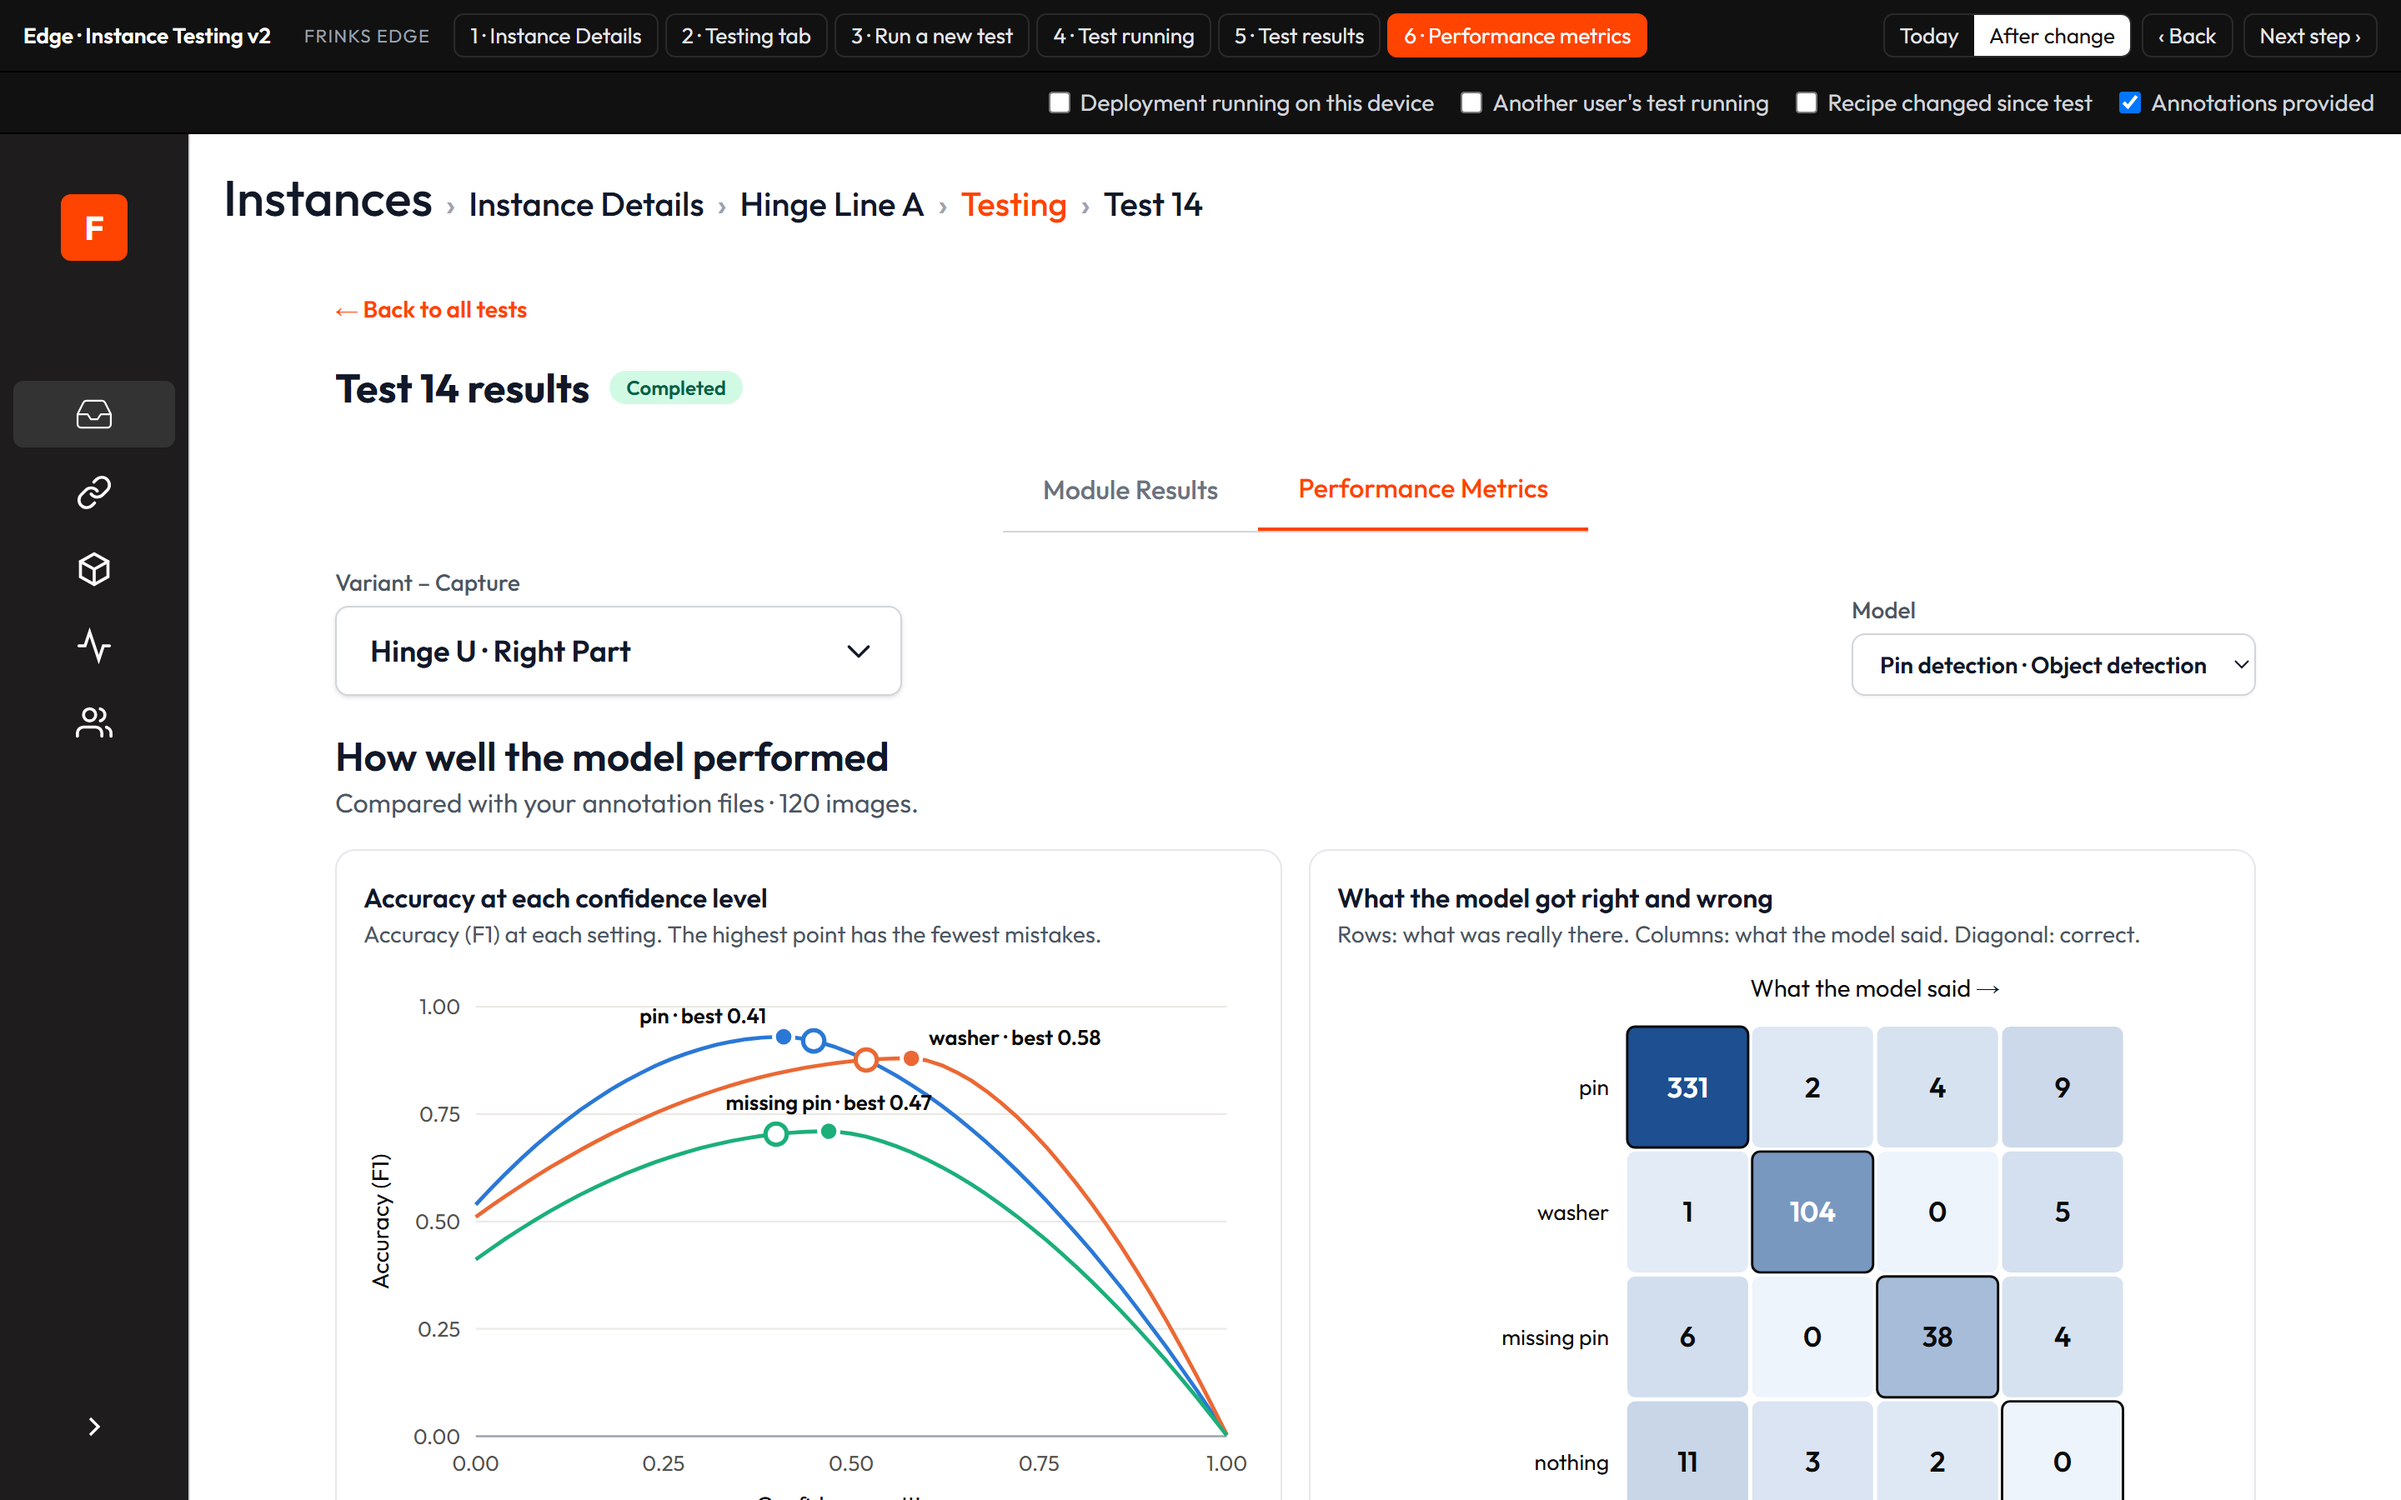
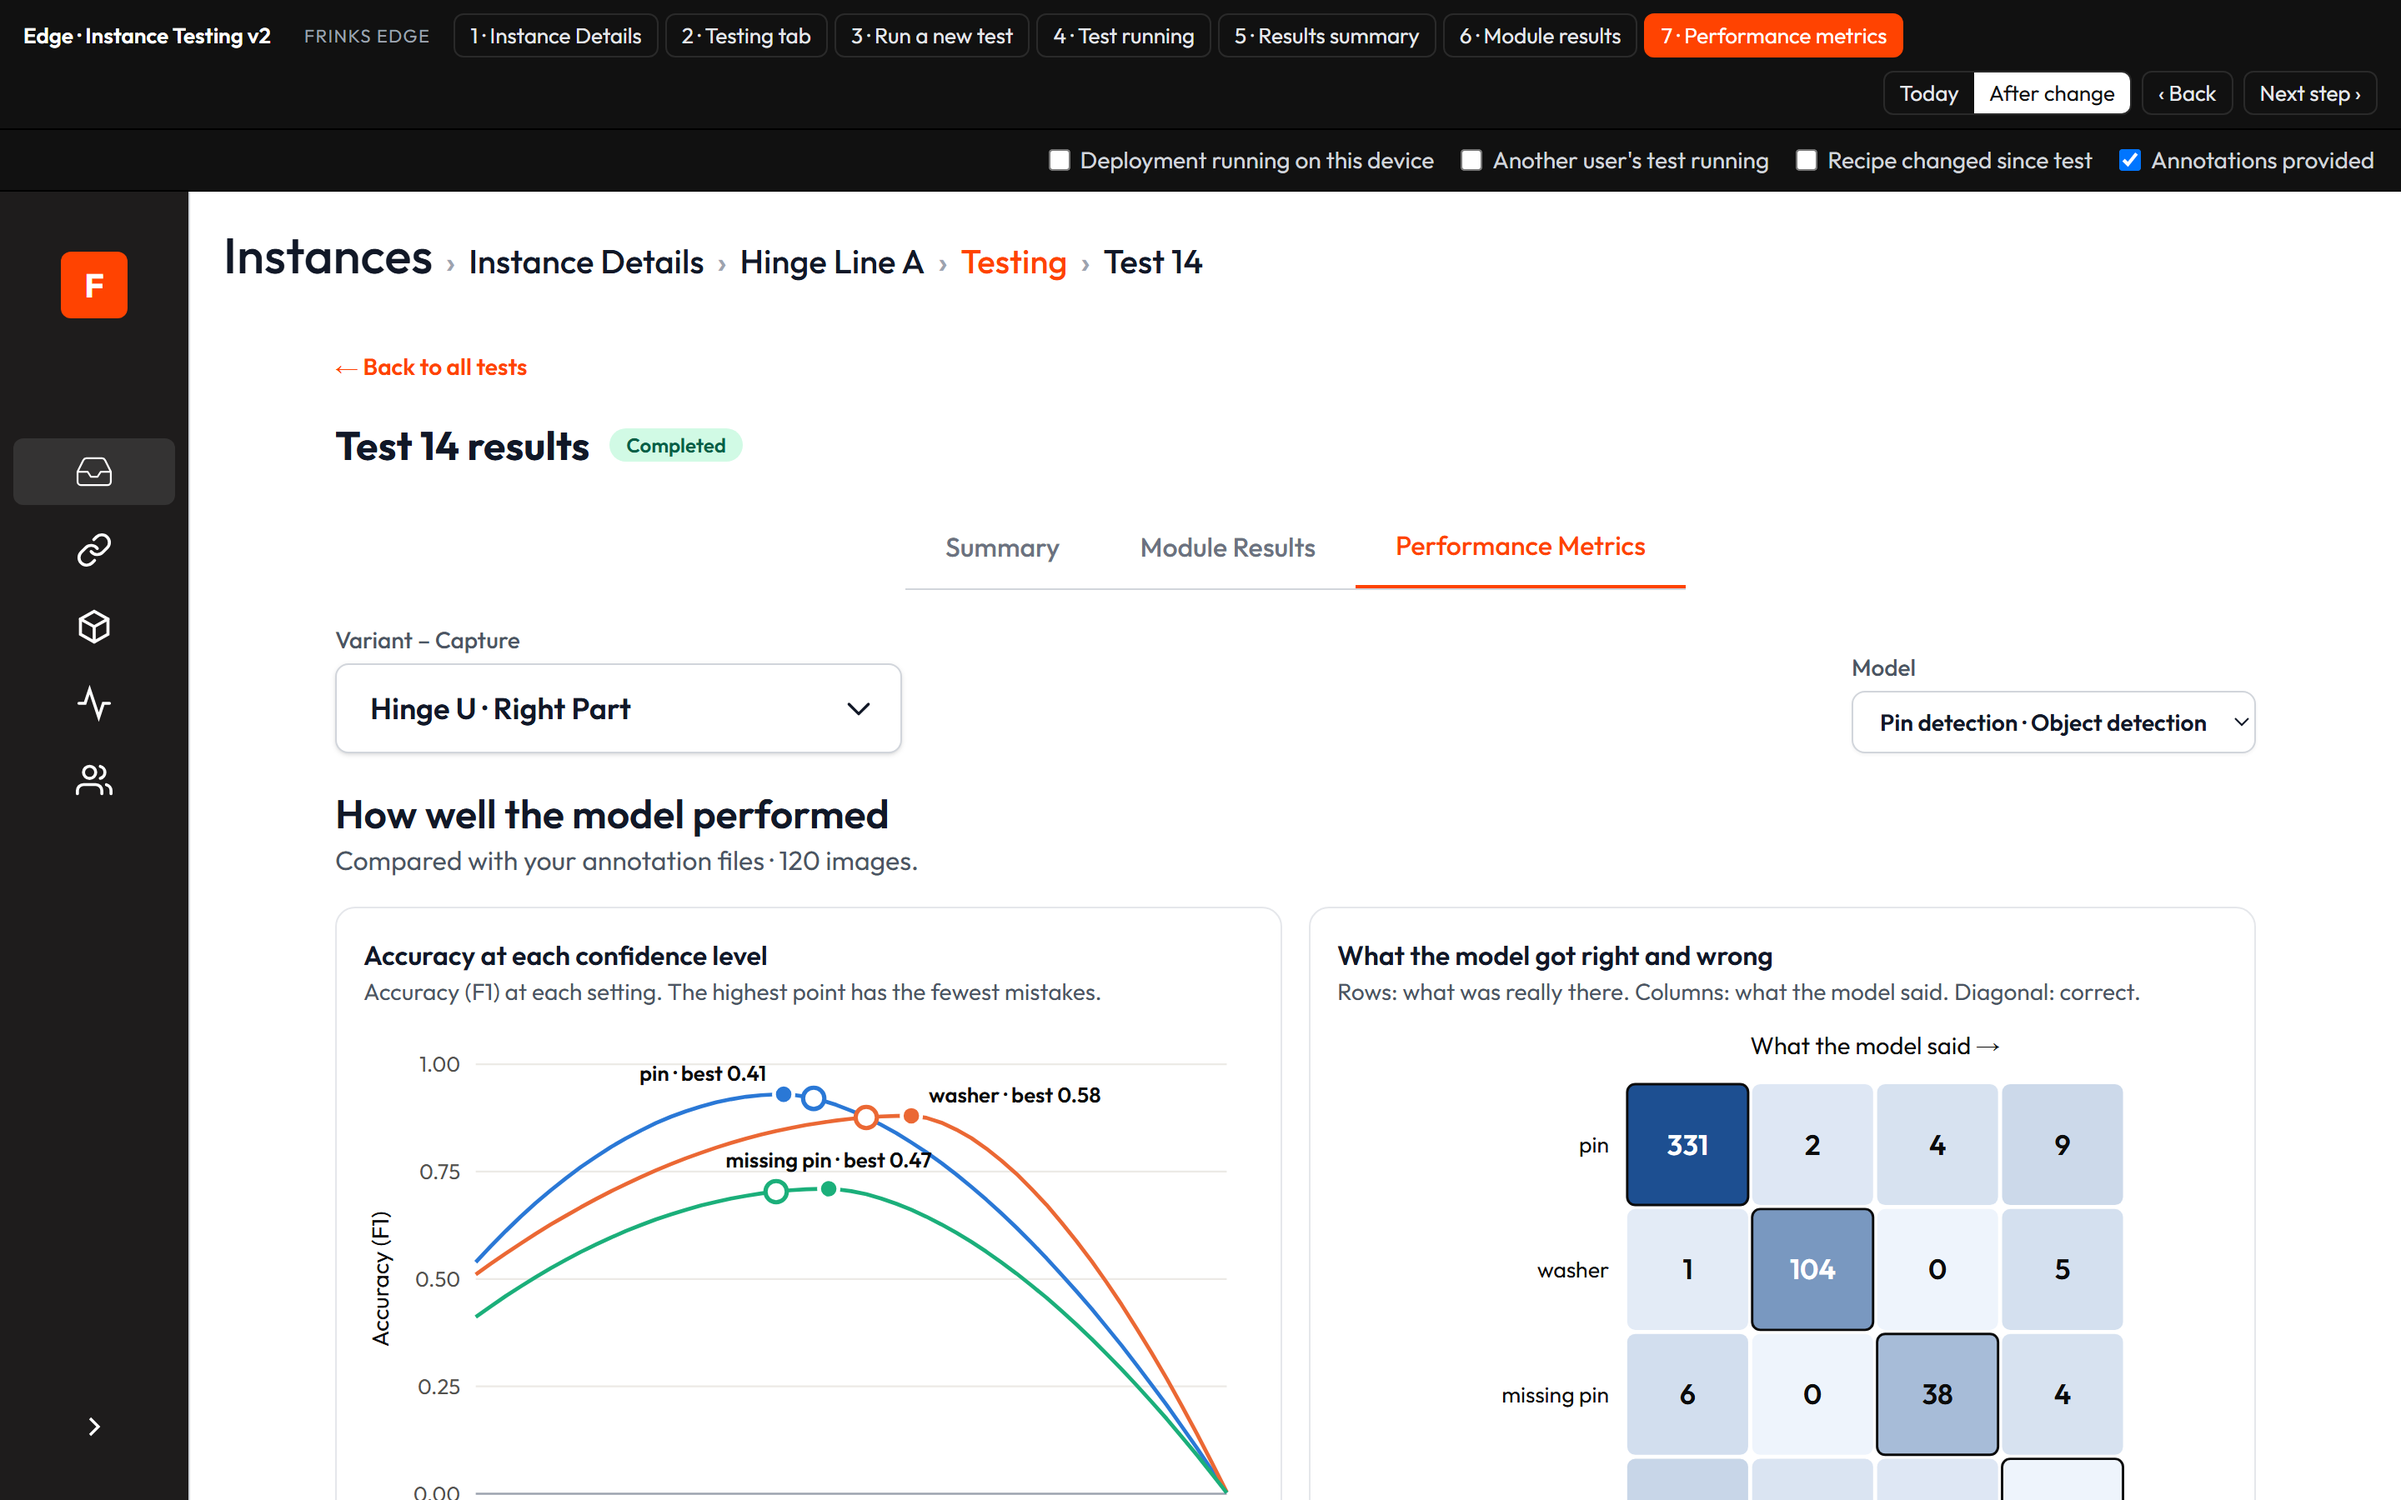
Edge Instance Testing v2: Summary back on its own tab
Reverts moving the Summary under Thresholds: results have Summary (default),
Module Results and Performance Metrics tabs again, and Summary counts OK/NG
at the thresholds the test ran with. The filter, centred selector and
Thresholds-header count from the last round stay.

diff --git a/after.html b/after.html
@@ -207,7 +207,7 @@ const S = {
   deploy: false, other: false, recipe: false, annot: false,
   myRun: null, deleted: [], today: false,
   dr: { f: { hu: true, hy: true, br: true, hs: true, hl: false }, up: null },
-  res: { test: 14, tab: 'module', filter: 'all', cap: 'hu', img: 2, mod: { hu: 'pin', hy: 'plating', br: 'weld', hs: 'bead', hl: 'ocr' } },
+  res: { test: 14, tab: 'summary', filter: 'all', cap: 'hu', img: 2, mod: { hu: 'pin', hy: 'plating', br: 'weld', hs: 'bead', hl: 'ocr' } },
   thr: {}, saved: {},
 };
 for (const [id, m] of Object.entries(MODS)) {
@@ -569,25 +569,29 @@ function resultsView() {
       </div>
       ${S.recipe ? `<div class="flex flex-wrap items-center gap-3 rounded-lg border border-yellow-300 bg-yellow-50 px-4 py-3 text-sm text-yellow-900">${ICON.warn}<span class="flex-1">These results use the settings from when the test ran. Settings have changed since — run a new test to see the effect.</span><button data-act="openDrawer" class="rounded-md bg-f-primary px-4 py-1.5 text-sm font-semibold text-white">Run a new test</button></div>
         ` : ''}
-      <div class="flex justify-center"><div class="inline-flex border-b border-gray-300">${tab('module', 'Module Results')}${tab('metrics', 'Performance Metrics')}</div></div>
-      ${S.res.tab === 'metrics' ? metricsTab(capSel) : resultsTab(capSel)}
+      <div class="flex justify-center"><div class="inline-flex border-b border-gray-300">${tab('summary', 'Summary')}${tab('module', 'Module Results')}${tab('metrics', 'Performance Metrics')}</div></div>
+      ${S.res.tab === 'summary' ? '<section id="summary"></section>' : S.res.tab === 'metrics' ? metricsTab(capSel) : resultsTab(capSel)}
     </div>
   </div>`;
 }
 // Frinks UI table header: orange row, white text
 const thO = (label, cls = '') => `<th class="px-4 py-3 text-left text-sm font-medium text-white ${cls}">${label}</th>`;
 const capMs = (c) => CAPS[c].mods.reduce((s, m) => s + MODS[m].ms, 0);
-// All captures at the thresholds being tried; redrawn whenever a threshold changes
+// Summary tab: every capture at the thresholds the test ran with
 function renderSummary() {
   const box = $('#summary'); if (!box) return;
   const t = curTest(), caps = Object.keys(t.imgs);
   const total = caps.reduce((s, c) => s + t.imgs[c], 0);
+  // Not the sliders on Module Results
+  const tried = S.thr; S.thr = S.saved;
+  const counts = Object.fromEntries(caps.map((c) => [c, capCounts(c)]));
+  S.thr = tried;
   const rows = caps.map((c) => {
-    const n = t.imgs[c], cc = capCounts(c);
+    const n = t.imgs[c], cc = counts[c];
     const bad = t.status === 'errors' && c === 'hu' ? UNREADABLE.length : 0;
     const skip = (t.skipped || {})[c];
     const notes = [bad ? `${bad} couldn't be read` : '', skip ? `${skip} skipped at upload: wrong image size` : ''].filter(Boolean);
-    return `<tr class="align-top ${c === S.res.cap ? 'bg-orange-50/60' : ''}">
+    return `<tr class="align-top">
       <td class="px-4 py-3 font-medium text-gray-900">${cn(c)}</td>
       <td class="px-4 py-3 text-gray-700">${bad ? `${n - bad} of ${n}` : n}${notes.length ? `<div class="text-xs text-amber-800">${notes.join(' · ')}</div>` : ''}</td>
       <td class="px-4 py-3 font-semibold text-emerald-700">${cc.ok}</td>
@@ -595,21 +599,18 @@ function renderSummary() {
       <td class="px-4 py-3 text-gray-700">${capMs(c)} ms</td>
     </tr>`;
   }).join('');
-  box.innerHTML = `<h2 class="text-lg font-semibold">Summary</h2>
-      <p class="text-sm text-gray-600">Every capture in this test at the thresholds above; OK and NG update as you change them.</p>
-      <div class="mt-3 overflow-x-auto rounded-lg border border-gray-200">
+  box.innerHTML = `<div class="overflow-x-auto rounded-lg border border-gray-200">
         <table class="w-full min-w-[720px] text-sm">
           <thead><tr class="bg-f-primary">${thO('Variant – Capture')}${thO('Images tested')}${thO('OK')}${thO('NG')}${thO('Average inference time per image')}</tr></thead>
           <tbody class="divide-y divide-gray-200 bg-white">${rows}</tbody>
         </table>
       </div>
-      <p class="mt-2 text-xs text-gray-500">Ran ${t.started} by ${t.by} · took ${t.took} · ${total} images across ${caps.length} captures · annotations ${S.annot ? 'added' : 'not added'}</p>`;
+      <p class="mt-2 text-xs text-gray-500">Ran ${t.started} by ${t.by} · took ${t.took} · ${total} images across ${caps.length} captures · annotations ${S.annot ? 'added' : 'not added'} · OK / NG at the thresholds the test ran with</p>`;
 }
 function resultsTab(capSel) {
   return `<div class="grid items-end gap-3 md:grid-cols-[1fr_auto_1fr]"><div class="hidden md:block"></div><div class="flex justify-center">${capSel}</div><div id="imgFilter" class="flex md:justify-end"></div></div>
       ${imagesBlock()}
-      ${thrPanel()}
-      <section id="summary" class="rounded-xl border border-gray-200 p-5"></section>`;
+      ${thrPanel()}`;
 }
 function metricsTab(capSel) {
   const cap = S.res.cap, modelMods = CAPS[cap].mods.filter((k) => MODS[k].classes);
@@ -825,7 +826,7 @@ function setThr(id, c, k, v) {
   const r = $(`[data-thr="${key}"]`), n = $(`[data-thrn="${key}"]`);
   if (r) { r.value = Math.round(v * 100); r.setAttribute('style', trackBg(Math.round(v * 100))); }
   if (n && document.activeElement !== n) n.value = v.toFixed(2);
-  updChg(); redrawAna(); updF1(); updSuggCur(); renderFilter(); renderSummary(); if ($('#pager')) renderPager();
+  updChg(); redrawAna(); updF1(); updSuggCur(); renderFilter(); if ($('#pager')) renderPager();
 }
 
 /* ─── Performance metrics ─── */
@@ -1335,12 +1336,12 @@ function render() {
   else if (S.screen === 'tab') app.innerHTML = testingTab();
   else if (S.screen === 'drawer') app.innerHTML = drawerView();
   else app.innerHTML = resultsView();
-  if (S.screen === 'results') { if (S.res.tab === 'module') { const v = visImgs(); if (v.length && !v.includes(S.res.img)) S.res.img = v[0]; drawImages(); renderUnder(); renderPager(); renderFilter(); renderSummary(); updChg(); } else if (S.res.tab === 'metrics') { drawF1(); drawCM(); } }
+  if (S.screen === 'results') { if (S.res.tab === 'module') { const v = visImgs(); if (v.length && !v.includes(S.res.img)) S.res.img = v[0]; drawImages(); renderUnder(); renderPager(); renderFilter(); updChg(); } else if (S.res.tab === 'summary') renderSummary(); else if (S.res.tab === 'metrics') { drawF1(); drawCM(); } }
   $$('.viewer-tab').forEach((t) => t.setAttribute('aria-selected', String(+t.dataset.vt === S.vt)));
   if (window.self !== window.top) parent.postMessage({ type: 'testing-v2-nav', to: stepOf() }, '*');
 }
 function stepOf() {
-  if (S.screen === 'results') return S.res.tab === 'metrics' ? 'edge-performance-metrics' : 'edge-test-results';
+  if (S.screen === 'results') return { summary: 'edge-test-results', module: 'edge-module-results', metrics: 'edge-performance-metrics' }[S.res.tab];
   return ['edge-instances', 'edge-testing-tab', 'edge-run-test', 'edge-test-running', 'edge-test-results'][S.vt];
 }
 function goScreen(name, keepScroll = false) {
@@ -1354,7 +1355,7 @@ function openResults(n) {
   const caps = Object.keys(testById(n).imgs);
   if (!caps.includes(S.res.cap)) S.res.cap = caps[0];
   S.res.img = Math.min(2, (testById(n).imgs[S.res.cap] || 1) - 1);
-  S.res.tab = 'module';
+  S.res.tab = 'summary';
   S.vt = 4;
   goScreen('results');
 }
@@ -1364,7 +1365,7 @@ function goVT(n) {
   if (n === 1) { S.myRun = null; S.noHistory = true; S.screen = 'tab'; }
   if (n === 2) { S.myRun = null; S.dr = { f: { hu: true, hy: true, br: true, hs: true, hl: false }, up: null }; S.screen = 'drawer'; }
   if (n === 3) { S.noHistory = false; S.myRun = { n: 15, state: 'running', pct: 42, caps: ['hu', 'hy', 'br', 'hs'], started: '11:05 AM' }; S.screen = 'tab'; }
-  if (n === 4) { S.noHistory = false; S.res.test = 14; S.res.tab = 'module'; S.screen = 'results'; }
+  if (n === 4) { S.noHistory = false; S.res.test = 14; S.res.tab = 'summary'; S.screen = 'results'; }
   render();
   window.scrollTo(0, 0);
 }
@@ -1563,7 +1564,7 @@ function applyHash() {
   goVT(vt);
   // A deployment and a test can't run on the device at the same time
   if (S.deploy && activeRun() && activeRun().state === 'running') { S.deploy = false; $('#tgDeploy').checked = false; render(); }
-  if (q.get('tab') === 'metrics' && S.screen === 'results') { S.res.tab = q.get('tab'); render(); }
+  if (['module', 'metrics'].includes(q.get('tab')) && S.screen === 'results') { S.res.tab = q.get('tab'); render(); }
   if (q.get('pct') && S.myRun) { S.myRun.pct = +q.get('pct'); render(); }
   if (q.get('apply') === '1' && S.screen === 'results') { S.res.tab = 'module'; render(); const id = S.res.mod[S.res.cap]; const c = MODS[id].classes[0]; setThr(id, c, 'conf', S.thr[id][c].conf - 0.04); openApply(); }
   if (q.get('hist') === '1') { S.noHistory = false; render(); }

diff --git a/index.html b/index.html
@@ -43,7 +43,8 @@ const STEPS = [
   { id: 'edge-testing-tab', label: 'Testing tab', today: 'today.html?state=s1', after: 'after.html#vt=1&hist=1' },
   { id: 'edge-run-test', label: 'Run a new test', today: 'today.html?state=s2', after: 'after.html#vt=2' },
   { id: 'edge-test-running', label: 'Test running', today: 'today.html?state=running', after: 'after.html#vt=3' },
-  { id: 'edge-test-results', label: 'Test results', today: 'today.html?state=s4', after: 'after.html#vt=4' },
+  { id: 'edge-test-results', label: 'Results summary', today: 'today.html?state=s4', after: 'after.html#vt=4' },
+  { id: 'edge-module-results', label: 'Module results', today: 'today.html?state=s4', after: 'after.html#vt=4&tab=module' },
   { id: 'edge-performance-metrics', label: 'Performance metrics', today: 'today.html?state=s4', after: 'after.html#vt=4&tab=metrics&annot=1' },
 ];
 const KEY = 'edge-testing-v2-shell';
